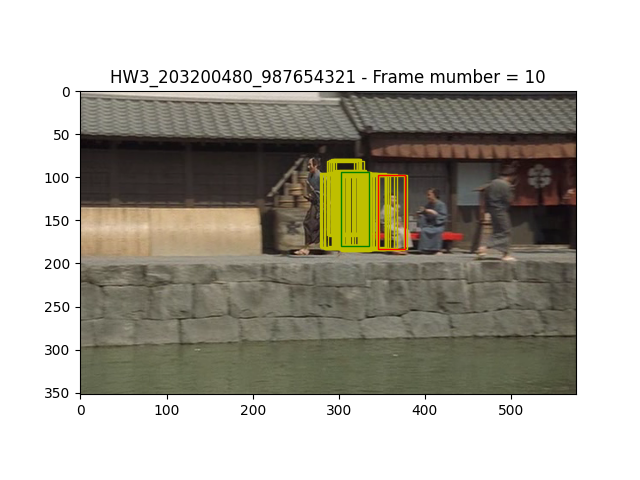
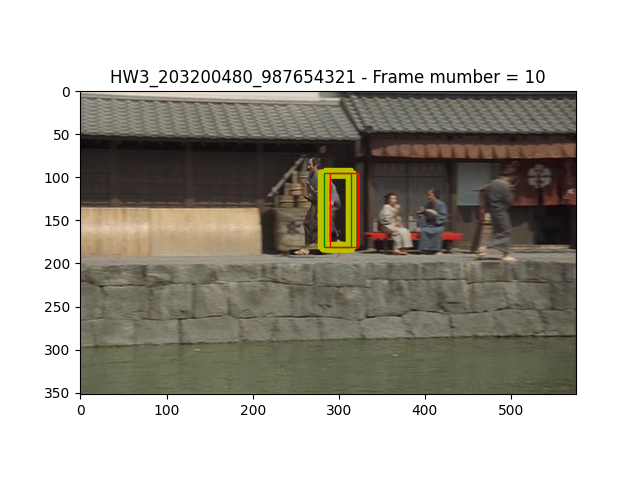
nrrd to fix the hist function

Changed region(s): [[0.4688, 0.3125, 0.6562, 0.5312]]

diff --git a/particle_filter.py b/particle_filter.py
@@ -29,10 +29,10 @@ s_initial = [297,    # x center
                0]    # velocity y
 
 
-sigma_x =1
-sigma_y =0.5
-sigma_vx =1
-sigma_vy =0.2
+sigma_x =5
+sigma_y =1.5
+sigma_vx =0
+sigma_vy =0
 
 def predict_particles(s_prior: np.ndarray) -> np.ndarray:
     """Progress the prior state with time and add noise.
@@ -77,6 +77,7 @@ def compute_normalized_histogram(image: np.ndarray, state: np.ndarray) -> np.nda
     
     """ DELETE THE LINE ABOVE AND:
         INSERT YOUR CODE HERE."""
+    
     hist = np.zeros((16, 16 , 16))
     max_higt,max_width,_ = image.shape
 
@@ -87,8 +88,13 @@ def compute_normalized_histogram(image: np.ndarray, state: np.ndarray) -> np.nda
     b = b//16
     g = g//16
     r = r//16
-    for i in range(len(croped_image )):
-        for j in range (len(croped_image[0])):
+    temp_range = [i for i in range(16)]
+    temp_hist_b = np.histogram(b,temp_range)
+    temp_hist_r= np.histogram(r,temp_range) 
+    temp_hist_g= np.histogram(g,temp_range) 
+    temp = croped_image.shape
+    for i in range(temp[0] ):
+        for j in range (temp[1]):
             temp_b = b[i,j]
             temp_r = r[i,j]
             temp_g = g[i,j]
@@ -97,13 +103,34 @@ def compute_normalized_histogram(image: np.ndarray, state: np.ndarray) -> np.nda
 
 
 
-    hist = hist.flatten() #np.reshape(hist, 16 * 16 * 16)  #
+    hist = np.reshape(hist, 16 * 16 * 16)  #hist.flatten() #
 
     # normalize
     hist = hist/np.sum(hist)
 
     return hist
+    '''
+    x, y, width, height, x_vel, y_vel = s_initial
 
+    temp_image = image[y - height:y + height, x - width:x + width]
+
+    b, g, r = cv2.split(temp_image)
+
+    b //= 16
+    g //= 16
+    r //= 16
+
+    histogram = np.zeros((16, 16, 16))
+
+    for i in range(len(temp_image)):
+        for j in range(len(temp_image[0])):
+            histogram[b[i, j]][g[i, j]][r[i, j]] += 1
+
+    histogram = histogram.reshape((4096, 1))
+    histogram /= np.sum(histogram)
+
+    return histogram
+    '''
 
 def sample_particles(previous_state: np.ndarray, cdf: np.ndarray) -> np.ndarray:
     """Sample particles from the previous state according to the cdf.
